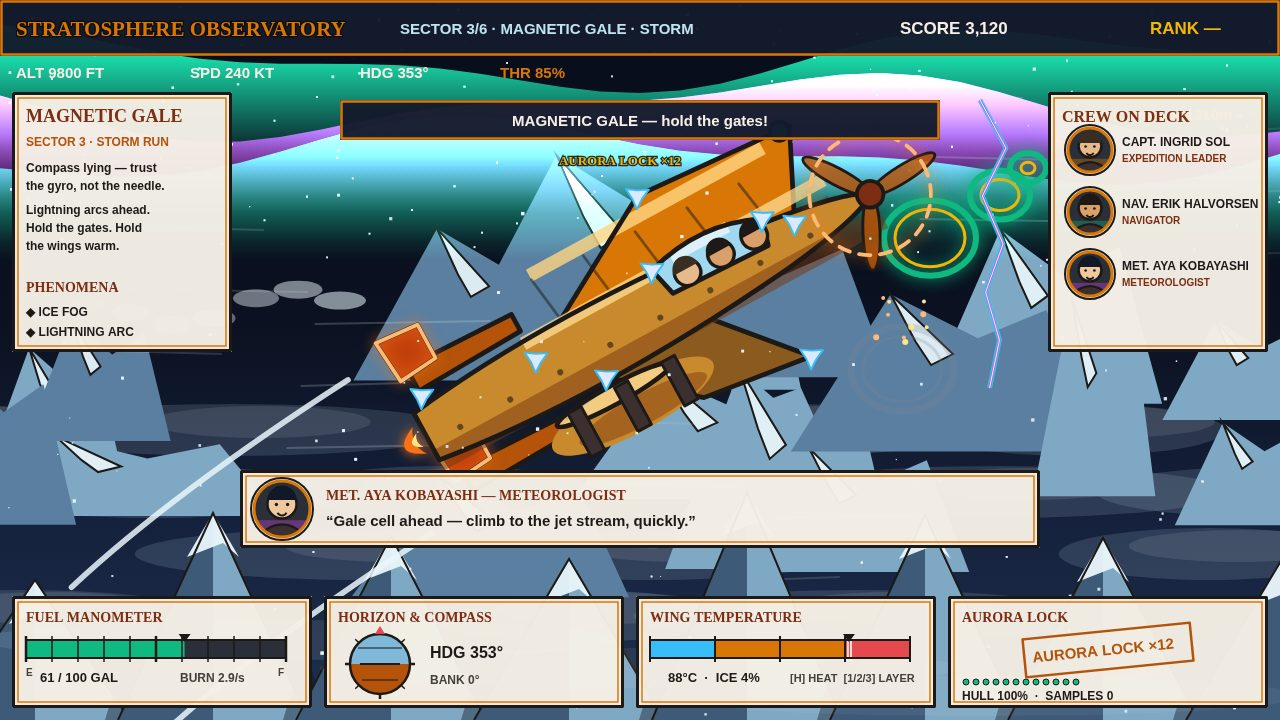
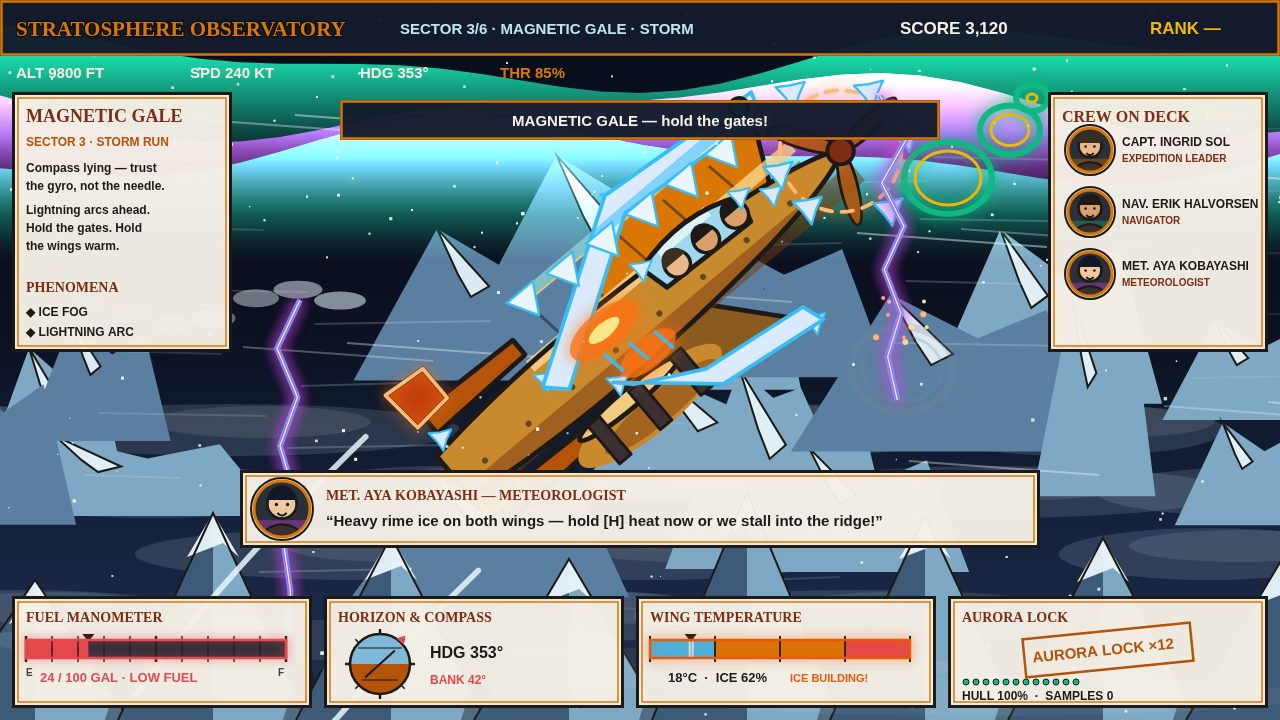
v2.2 final climax: Shot 1 subtitle fix, Magnetic Gale near-miss (40-degree bank, rime ice, AUX fuel bladder, critical HUD), glass sample tubes (ECO v2.2, Fura 14:14, approved 14:49)

diff --git a/game/src/render.js b/game/src/render.js
@@ -109,7 +109,31 @@ export function drawSnow(ctx, g, world, storm) {
     const y = ((s.y * 720 + g.t * s.v * 0.9) % 720 + 720) % 720;
     ctx.fillRect(x, y, s.s, s.s);
   }
-  if (storm) {
+  // v2.2 Fix 2: climax lightning — TWO bright magenta-cyan bolts, drawn
+  // every frozen frame: one tight by the wingtip (x 880), one striking
+  // the jagged ridge below (x 300). Both stay clear of the HDG readout
+  // column (x 320–520 at the top bar; the ridge bolt zigzags to 330 max
+  // and sits far below the top bar, the wingtip bolt is at x 880).
+  if (g.climax) {
+    const bolt = (bx, top, bottom, ph) => {
+      const trace = (color, lw) => {
+        ctx.strokeStyle = color; ctx.lineWidth = lw; ctx.lineJoin = 'round';
+        ctx.beginPath();
+        let lx = bx, ly = top;
+        ctx.moveTo(lx, ly);
+        for (let k = 0; k < 7; k++) { lx += Math.sin(k * 3 + ph) * 28; ly += (bottom - top) / 7; ctx.lineTo(lx, ly); }
+        ctx.stroke();
+      };
+      ctx.save(); ctx.shadowColor = '#D946EF'; ctx.shadowBlur = 14;
+      trace('rgba(34,211,238,0.9)', 6);
+      trace('rgba(217,70,239,0.95)', 3);
+      trace('rgba(255,255,255,0.95)', 1.2);
+      ctx.restore();
+    };
+    bolt(880, 96, 400, 1.2);
+    bolt(300, 300, 640, 4.1);
+  }
+  if (storm && !g.climax) {
     // Lightning arcs — v2.1: purple-cyan two-tone, striking cloud tops
     // BELOW the top bar, and never in the HDG readout column (x 320–520).
     const b = world.bolts[Math.floor(g.t * 0.7) % world.bolts.length];
@@ -162,7 +186,13 @@ export function drawTitle(ctx, g, world) {
   drawNearPeaks(ctx); // v2.1 Fix 2: near ice mountains + valley fog
   // big title — gold-white inked lettering with a FIRM outline (forced on)
   text(ctx, 'STRATOSPHERE OBSERVATORY', 640, 78, 46, '#FDF3C4', 900, 'center', 'Georgia, serif', true);
-  label(ctx, 'ARCTIC EXPEDITION AIRCRAFT · 1928 POLAR FLIGHT', 640, 106, 14, PAL.ice, 'center');
+  // v2.2 Fix 1: subtitle lifted off the brightest aurora band — a solid
+  // dark navy strip behind it, shrunk to 12px and nudged up, so "ARCTIC"
+  // stays fully legible and clear of the PRESS ENTER panel below.
+  ctx.fillStyle = 'rgba(11,17,32,0.88)';
+  ctx.fillRect(408, 86, 464, 24);
+  ctx.strokeStyle = PAL.brass; ctx.lineWidth = 1.5; ctx.strokeRect(408, 86, 464, 24);
+  label(ctx, 'ARCTIC EXPEDITION AIRCRAFT · 1928 POLAR FLIGHT', 640, 102, 12, PAL.ice, 'center');
   // the aircraft, large, banking ~26° and piercing the aurora (Fix 2)
   drawAircraft(ctx, 640, 360, 1.9, -0.45, g.t, { crew: 2, mods: g.modules.map((m) => m.id) });
   drawSnow(ctx, g, world, false);
@@ -247,12 +277,22 @@ export function drawStorm(ctx, g, world) {
   // Shot 3: magnetic gale climax — cockpit-first, crew behind glass
   drawSky(ctx, g, world);
   drawAurora(ctx, g.t, g.sector, 1.6); // v2.1: sharper, thicker aurora glow
-  drawWindStreaks(ctx, g, 18); // v2.1 Fix 2: speed lines
+  drawWindStreaks(ctx, g, 30); // v2.2: denser speed lines for the climax
+  // v2.2 Fix 2: fast white storm wind lines streaking across the screen.
+  ctx.save();
+  for (let i = 0; i < 14; i++) {
+    const wy = 110 + ((i * 173 + 60) % 460);
+    const wx = (i * 307 + 40) % 1280;
+    ctx.strokeStyle = 'rgba(255,255,255,' + (0.28 + (i % 3) * 0.08).toFixed(2) + ')';
+    ctx.lineWidth = 2;
+    ctx.beginPath(); ctx.moveTo(wx, wy); ctx.lineTo(wx + 190, wy + 14); ctx.stroke();
+  }
+  ctx.restore();
   drawNearPeaks(ctx); // v2.1 Fix 2: near ice mountains + valley fog
   drawRings(ctx, g);
-  // v2.1 Fix 2: glowing green-gold sky-gates in perspective, receding
-  // ahead of the aircraft, with the AURORA LOCK ×12 combo tag.
-  for (const [gx, gy, gr] of [[930, 238, 46], [1000, 195, 30], [1028, 168, 18]]) {
+  // v2.2 Fix 2: 3 glowing aurora rings top-right, nearly missed by the
+  // crosswind push — tucked into the free sky left of the crew panel.
+  for (const [gx, gy, gr] of [[948, 178, 44], [1010, 130, 30], [1032, 98, 16]]) {
     ctx.save();
     ctx.shadowColor = '#10B981'; ctx.shadowBlur = 16;
     ctx.beginPath(); ctx.ellipse(gx, gy, gr, gr * 0.82, 0, 0, Math.PI * 2);
@@ -261,10 +301,10 @@ export function drawStorm(ctx, g, world) {
     ctx.strokeStyle = '#F2B705'; ctx.lineWidth = 3; ctx.stroke();
     ctx.restore();
   }
-  // Combo tag above the wing, clear of the banner, the wing and the bolt.
-  text(ctx, 'AURORA LOCK ×12', 620, 165, 13, PAL.gold, 900, 'center');
-  // v2.1 Fix 3: iced wings/glass, heater flame, visible installed refits
-  drawAircraft(ctx, 640, 320, 1.9, -0.5, g.t, { crew: 3, mods: g.modules.map((m) => m.id), iced: true, storm: true });
+  // v2.2 Fix 2: the small duplicate "AURORA LOCK ×12" that sat here at
+  // top centre is REMOVED — only the clean stamp at bottom-right shows.
+  // v2.2 Fix 2: sharp 40° banking (-0.70 rad) + climax ice / heat visuals.
+  drawAircraft(ctx, 640, 320, 1.9, -0.70, g.t, { crew: 3, mods: g.modules.map((m) => m.id), iced: true, storm: true, climax: true });
   // v2.1: white smoke trails off the wingtips + orange engine sparks
   // from the propellers (deterministic positions from the fixed shot time).
   for (let i = 0; i < 8; i++) {
@@ -353,15 +393,33 @@ export function drawLogbook(ctx, g) {
     label(ctx, (got ? '★ ' : '○ ') + f, x + 26, y, 12, got ? '#1C1917' : '#78716C');
   });
   // atmospheric samples
+  // v2.2 Fix 3: 8 copper-capped glass sample tubes with glowing aurora
+  // gas inside — detailed expedition artifacts, not plain colour blocks.
   text(ctx, 'ATMOSPHERIC SAMPLES', 670, 460, 15, '#7C2D12');
   for (let i = 0; i < 8; i++) {
     const x = 690 + i * 58;
-    ctx.fillStyle = i < 5 ? '#10B981' : '#D946EF';
-    ctx.fillRect(x, 480, 34, 52);
-    ctx.strokeStyle = INK; ctx.lineWidth = 2; ctx.strokeRect(x, 480, 34, 52);
+    const gas = i < 5 ? '#10B981' : '#D946EF';
+    // glowing gas column inside the glass
+    ctx.save(); ctx.shadowColor = gas; ctx.shadowBlur = 12;
+    ctx.fillStyle = gas; ctx.fillRect(x + 6, 494, 22, 34); ctx.restore();
+    // glass tube body (translucent white over the gas) + ink outline
+    ctx.fillStyle = 'rgba(245,239,230,0.28)'; ctx.fillRect(x + 2, 488, 30, 44);
+    ctx.strokeStyle = INK; ctx.lineWidth = 2; ctx.strokeRect(x + 2, 488, 30, 44);
+    // gas bubbles rising in the tube
+    ctx.fillStyle = 'rgba(255,255,255,0.85)';
+    ctx.beginPath(); ctx.arc(x + 14, 502, 3, 0, Math.PI * 2); ctx.fill();
+    ctx.beginPath(); ctx.arc(x + 22, 516, 2, 0, Math.PI * 2); ctx.fill();
+    // glass highlight + copper cap with rivets
+    ctx.fillStyle = 'rgba(255,255,255,0.7)'; ctx.fillRect(x + 6, 490, 4, 40);
+    ctx.fillStyle = '#B45309'; ctx.fillRect(x + 2, 478, 30, 10);
+    ctx.fillStyle = 'rgba(255,214,130,0.8)'; ctx.fillRect(x + 2, 478, 30, 3);
+    ctx.strokeStyle = INK; ctx.lineWidth = 2; ctx.strokeRect(x + 2, 478, 30, 10);
+    ctx.fillStyle = '#1C1917';
+    ctx.beginPath(); ctx.arc(x + 9, 483, 1.6, 0, Math.PI * 2); ctx.fill();
+    ctx.beginPath(); ctx.arc(x + 25, 483, 1.6, 0, Math.PI * 2); ctx.fill();
     label(ctx, 'S' + (i + 1), x + 17, 556, 11, '#1C1917', 'center');
   }
-  label(ctx, 'Samples: aurora green ×5 · magnetic magenta ×3 — sealed in copper vials.', 670, 586, 12, '#44403C');
+  label(ctx, 'Samples: aurora green ×5 · magnetic magenta ×3 — copper-capped glass tubes.', 670, 586, 12, '#44403C');
   label(ctx, 'PRESS ENTER TO FLY AGAIN', 670, 624, 14, '#7C2D12');
   label(ctx, 'Sectors cleared ' + g.sorties + ' · Rings flown ' + g.ringIdx + ' · Feats ' + g.feats.length + '/20', 90, 624, 12, '#44403C');
 }

diff --git a/game/src/hud.js b/game/src/hud.js
@@ -69,12 +69,20 @@ export function bottomInstruments(ctx, g) {
   ctx.beginPath(); ctx.moveTo(fx - 6, y + 38); ctx.lineTo(fx + 6, y + 38); ctx.lineTo(fx, y + 46); ctx.closePath(); ctx.fill();
   label(ctx, 'E', 26, y + 80, 10, '#44403C');
   label(ctx, 'F', 278, y + 80, 10, '#44403C');
-  label(ctx, Math.round(g.fuel) + ' / ' + g.fuelMax + ' GAL', 40, y + 86, 13, '#1C1917');
-  label(ctx, 'BURN ' + (0.9 + g.throttle * 2.4).toFixed(1) + '/s', 180, y + 86, 12, '#44403C');
+  // v2.2 Fix 2 (climax): red LOW FUEL warning instead of the plain level.
+  if (g.climax) {
+    ctx.save(); ctx.shadowColor = '#E5484D'; ctx.shadowBlur = 10;
+    ctx.strokeStyle = '#E5484D'; ctx.lineWidth = 2.5; ctx.strokeRect(26, y + 44, 260, 18); ctx.restore();
+    label(ctx, Math.round(g.fuel) + ' / ' + g.fuelMax + ' GAL · LOW FUEL', 40, y + 86, 13, '#E5484D');
+  } else {
+    label(ctx, Math.round(g.fuel) + ' / ' + g.fuelMax + ' GAL', 40, y + 86, 13, '#1C1917');
+    label(ctx, 'BURN ' + (0.9 + g.throttle * 2.4).toFixed(1) + '/s', 180, y + 86, 12, '#44403C');
+  }
   // Artificial horizon & compass — pitch ladder, bank needle, tick ring.
   panel(ctx, 324, y, 300, h, PAL.cream);
   text(ctx, 'HORIZON & COMPASS', 338, y + 26, 14, '#7C2D12');
-  const bankDeg = Math.round(Math.sin(g.t) * 12);
+  // v2.2 Fix 2 (climax): the horizon reads a sharp 42° bank, not ~0°.
+  const bankDeg = g.climax ? 42 : Math.round(Math.sin(g.t) * 12);
   ctx.save();
   ctx.beginPath(); ctx.arc(380, y + 68, 30, 0, Math.PI * 2); ctx.clip();
   ctx.fillStyle = '#7FB8D8'; ctx.fillRect(350, y + 38, 60, 30);
@@ -100,11 +108,14 @@ export function bottomInstruments(ctx, g) {
   ctx.fillStyle = '#E5484D';
   ctx.beginPath(); ctx.moveTo(-5, -30); ctx.lineTo(5, -30); ctx.lineTo(0, -38); ctx.closePath(); ctx.fill();
   ctx.restore();
-  // level wings line
-  ctx.strokeStyle = '#1C1917'; ctx.lineWidth = 2; ctx.beginPath(); ctx.moveTo(360, y + 68); ctx.lineTo(400, y + 68); ctx.stroke();
+  // level wings line — v2.2 climax: tilted sharply with the 42° bank.
+  ctx.save();
+  ctx.translate(380, y + 68); ctx.rotate(g.climax ? -42 * Math.PI / 180 : 0);
+  ctx.strokeStyle = '#1C1917'; ctx.lineWidth = 2; ctx.beginPath(); ctx.moveTo(-20, 0); ctx.lineTo(20, 0); ctx.stroke();
+  ctx.restore();
   const hdg = Math.round(((g.heading * 57.2958) % 360 + 360) % 360);
   label(ctx, 'HDG ' + String(hdg).padStart(3, '0') + '°', 430, y + 62, 16, '#1C1917');
-  label(ctx, 'BANK ' + bankDeg + '°', 430, y + 88, 12, '#44403C');
+  label(ctx, 'BANK ' + bankDeg + '°', 430, y + 88, 12, g.climax ? '#E5484D' : '#44403C');
   // Wing temperature — zone-coloured bar + ticks + needle.
   panel(ctx, 636, y, 300, h, PAL.cream);
   text(ctx, 'WING TEMPERATURE', 650, y + 26, 14, '#7C2D12');
@@ -125,7 +136,14 @@ export function bottomInstruments(ctx, g) {
   ctx.fillStyle = '#1C1917';
   ctx.beginPath(); ctx.moveTo(wx - 6, y + 38); ctx.lineTo(wx + 6, y + 38); ctx.lineTo(wx, y + 46); ctx.closePath(); ctx.fill();
   label(ctx, Math.round(g.wingTemp) + '°C  ·  ICE ' + Math.round(g.ice) + '%', 668, y + 86, 13, '#1C1917');
-  label(ctx, '[H] HEAT  [1/2/3] LAYER', 790, y + 86, 11, '#44403C');
+  // v2.2 Fix 2 (climax): wing bar glows red-orange, ICE BUILDING! warning.
+  if (g.climax) {
+    ctx.save(); ctx.shadowColor = '#EA580C'; ctx.shadowBlur = 12;
+    ctx.strokeStyle = '#EA580C'; ctx.lineWidth = 2.5; ctx.strokeRect(650, y + 44, 260, 18); ctx.restore();
+    label(ctx, 'ICE BUILDING!', 790, y + 86, 11, '#EA580C');
+  } else {
+    label(ctx, '[H] HEAT  [1/2/3] LAYER', 790, y + 86, 11, '#44403C');
+  }
   // Aurora lock stamp — v2.1: stamp shrunk and moved up so it clears both
   // the header and the HULL line; 12 lock dots sit on their own row.
   panel(ctx, 948, y, 320, h, PAL.cream);
@@ -169,6 +187,11 @@ export function dialogueBox(ctx, g) {
   const c = CREW[g.dialogue % CREW.length];
   panel(ctx, 240, 470, 800, 78, PAL.cream);
   drawCrew(ctx, c, 282, 509, 28);
+  // v2.2 Fix 2 (climax): Kobayashi's exact panicked line. The name stays
+  // clean bold Dark Navy/Terracotta on cream — no black stroke artifact.
+  const line = (g.climax && c.name.startsWith('MET.'))
+    ? 'Heavy rime ice on both wings — hold [H] heat now or we stall into the ridge!'
+    : c.line;
   text(ctx, c.name + ' — ' + c.role.toUpperCase(), 326, 500, 14, '#7C2D12');
-  label(ctx, '“' + c.line + '”', 326, 526, 15, '#1C1917');
+  label(ctx, '“' + line + '”', 326, 526, 15, '#1C1917');
 }

diff --git a/game/src/art.js b/game/src/art.js
@@ -188,6 +188,45 @@ export function drawAircraft(ctx, cx, cy, s, bank, t, opts = {}) {
       ctx.restore();
     }
   }
+  // v2.2 Fix 2 (climax): THICK blue-white rime ice clinging along the
+  // leading edges of both wings, plus orange [H] HEAT glow melting the
+  // wing roots — drawn on top of the small v2.1 crystals.
+  if (opts.climax) {
+    // thick ice slab along the upper-wing leading edge
+    ctx.beginPath();
+    ctx.moveTo(-62, -6); ctx.lineTo(28, -62); ctx.lineTo(122, -54); ctx.lineTo(118, -42);
+    ctx.lineTo(30, -48); ctx.lineTo(-52, 4); ctx.closePath();
+    ctx.fillStyle = '#DBEAFE'; ctx.fill();
+    ctx.fillStyle = 'rgba(56,189,248,0.55)'; ctx.fillRect(-40, -52, 150, 6);
+    ctx.strokeStyle = '#38BDF8'; ctx.lineWidth = 2; ctx.stroke();
+    // jagged crystal teeth hanging off that leading edge
+    ctx.fillStyle = '#EAF6FB';
+    for (let k = 0; k < 7; k++) {
+      const tx = -48 + k * 26, ty = -52 + k * 1.5;
+      ctx.beginPath(); ctx.moveTo(tx, ty); ctx.lineTo(tx + 9, ty + 16); ctx.lineTo(tx + 18, ty); ctx.closePath(); ctx.fill();
+      ctx.strokeStyle = '#38BDF8'; ctx.lineWidth = 1.2; ctx.stroke();
+    }
+    // thick ice along the lower-wing leading edge
+    ctx.beginPath();
+    ctx.moveTo(-32, 16); ctx.lineTo(12, 54); ctx.lineTo(74, 62); ctx.lineTo(70, 50);
+    ctx.lineTo(10, 42); ctx.lineTo(-24, 24); ctx.closePath();
+    ctx.fillStyle = '#DBEAFE'; ctx.fill();
+    ctx.strokeStyle = '#38BDF8'; ctx.lineWidth = 2; ctx.stroke();
+    // orange heat glow starting to melt the wing roots
+    ctx.save();
+    ctx.shadowColor = '#F97316'; ctx.shadowBlur = 18;
+    ctx.fillStyle = 'rgba(249,115,22,0.75)';
+    ctx.beginPath(); ctx.ellipse(-18, -8, 22, 10, 0, 0, Math.PI * 2); ctx.fill();
+    ctx.beginPath(); ctx.ellipse(-8, 16, 18, 8, 0, 0, Math.PI * 2); ctx.fill();
+    ctx.restore();
+    ctx.fillStyle = '#FDE68A';
+    ctx.beginPath(); ctx.ellipse(-18, -8, 10, 4, 0, 0, Math.PI * 2); ctx.fill();
+    // melt drips running off the wing root
+    ctx.strokeStyle = 'rgba(56,189,248,0.9)'; ctx.lineWidth = 2;
+    for (const [dx, dy] of [[-26, 2], [-12, 6], [2, 10]]) {
+      ctx.beginPath(); ctx.moveTo(dx, dy); ctx.lineTo(dx + 2, dy + 12); ctx.stroke();
+    }
+  }
   // nose propellers (2, spinning blur)
   const spin = t * 14;
   for (const px of [138]) {
@@ -210,6 +249,23 @@ export function drawAircraft(ctx, cx, cy, s, bank, t, opts = {}) {
     ctx.beginPath(); ctx.arc(0, 0, 32, 0, Math.PI * 2);
     ctx.strokeStyle = '#FDBA74'; ctx.lineWidth = 2; ctx.setLineDash([6, 5]); ctx.stroke();
     ctx.restore();
+  }
+  // v2.2 Fix 2 (climax): thick rime ice clinging to the propeller disc —
+  // crystal clusters at the blade tips, on top of the heated-prop glow.
+  if (opts.climax) {
+    for (const [ix, iy] of [[138, -40], [170, -14], [170, 16], [138, 40], [106, 12], [106, -12]]) {
+      ctx.save(); ctx.translate(ix, iy);
+      ctx.beginPath();
+      for (let k = 0; k < 6; k++) {
+        const a = k * Math.PI / 3, r = k % 2 ? 4 : 9;
+        if (k === 0) ctx.moveTo(Math.cos(a) * r, Math.sin(a) * r);
+        else ctx.lineTo(Math.cos(a) * r, Math.sin(a) * r);
+      }
+      ctx.closePath();
+      ctx.fillStyle = '#DBEAFE'; ctx.fill();
+      ctx.strokeStyle = '#38BDF8'; ctx.lineWidth = 1.2; ctx.stroke();
+      ctx.restore();
+    }
   }
   // wingtip lights
   ctx.beginPath(); ctx.arc(112, -52, 5, 0, Math.PI * 2); ctx.fillStyle = '#10B981'; ctx.fill(); ctx.strokeStyle = INK; ctx.lineWidth = 2; ctx.stroke();

diff --git a/game/src/shots.js b/game/src/shots.js
@@ -30,7 +30,8 @@ export function applyShot(g, shot, seed) {
     g.modules = [MODULES[1], MODULES[2], MODULES[3]];
     g.t = 3.1;
     g.px = 1000; g.py = 300; g.heading = -0.12; g.speed = 240; g.throttle = 0.85;
-    g.fuel = 61; g.wingTemp = 88; g.ice = 4; g.score = 3120; g.combo = 3;
+    // v2.2 Fix 2 (climax): critical state — 24 GAL fuel, cold icing wings.
+    g.fuel = 24; g.wingTemp = 18; g.ice = 62; g.score = 3120; g.combo = 3; g.climax = true;
     g.rings[0].taken = true; g.ringIdx = 1;
     g.message = 'MAGNETIC GALE — hold the gates!'; g.msgT = 10;
     g.dialogue = 2; g.dialogueT = 10;

diff --git a/game/src/flight.js b/game/src/flight.js
@@ -14,7 +14,7 @@ export function newGame(seed = 1) {
     sectorScore: 0, sorties: 0, damageTaken: 0, fuelUsed: 0,
     victory: false, defeat: false, rank: '—', beaconHold: 0,
     dialogue: 0, dialogueT: 0, phenActive: 0, auroraLock: 0,
-    auto: false, clearedSector1: false, storm: false,
+    auto: false, clearedSector1: false, storm: false, climax: false,
   };
 }
 export function hasModule(g, id) { return g.modules.some((m) => m.id === id); }
